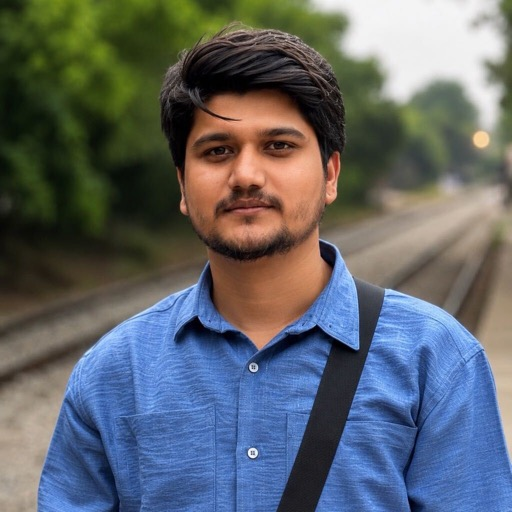
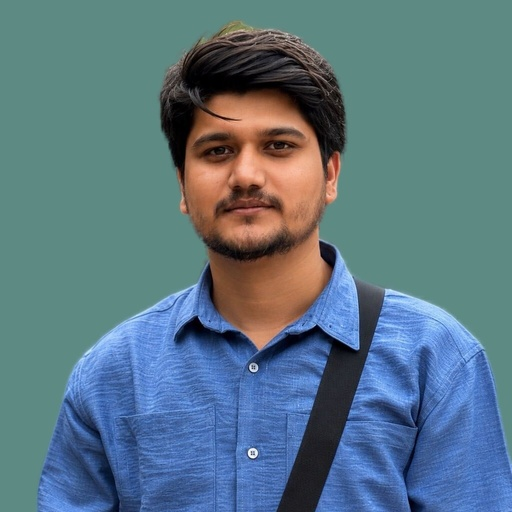
changes in resume

diff --git a/src/app/layout.tsx b/src/app/layout.tsx
@@ -3,6 +3,7 @@ import { siteConfig } from "@/data/site";
 import { DEFAULT_THEME } from "@/lib/theme";
 import type { Metadata, Viewport } from "next";
 import { Analytics } from "@vercel/analytics/next";
+import { SpeedInsights } from "@vercel/speed-insights/next";
 import { Footer } from "@/components/layout/Footer";
 import { Navbar } from "@/components/layout/Navbar";
 import { BackToTop } from "@/components/ui/BackToTop";
@@ -120,6 +121,10 @@ export default function RootLayout({ children }: { children: React.ReactNode }) 
         {/* Page views + visitor location, visible only in the Vercel
             dashboard — a no-op until Web Analytics is enabled there. */}
         <Analytics />
+
+        {/* Real-user Core Web Vitals, visible only in the Vercel dashboard —
+            a no-op until Speed Insights is enabled there. */}
+        <SpeedInsights />
       </body>
     </html>
   );
